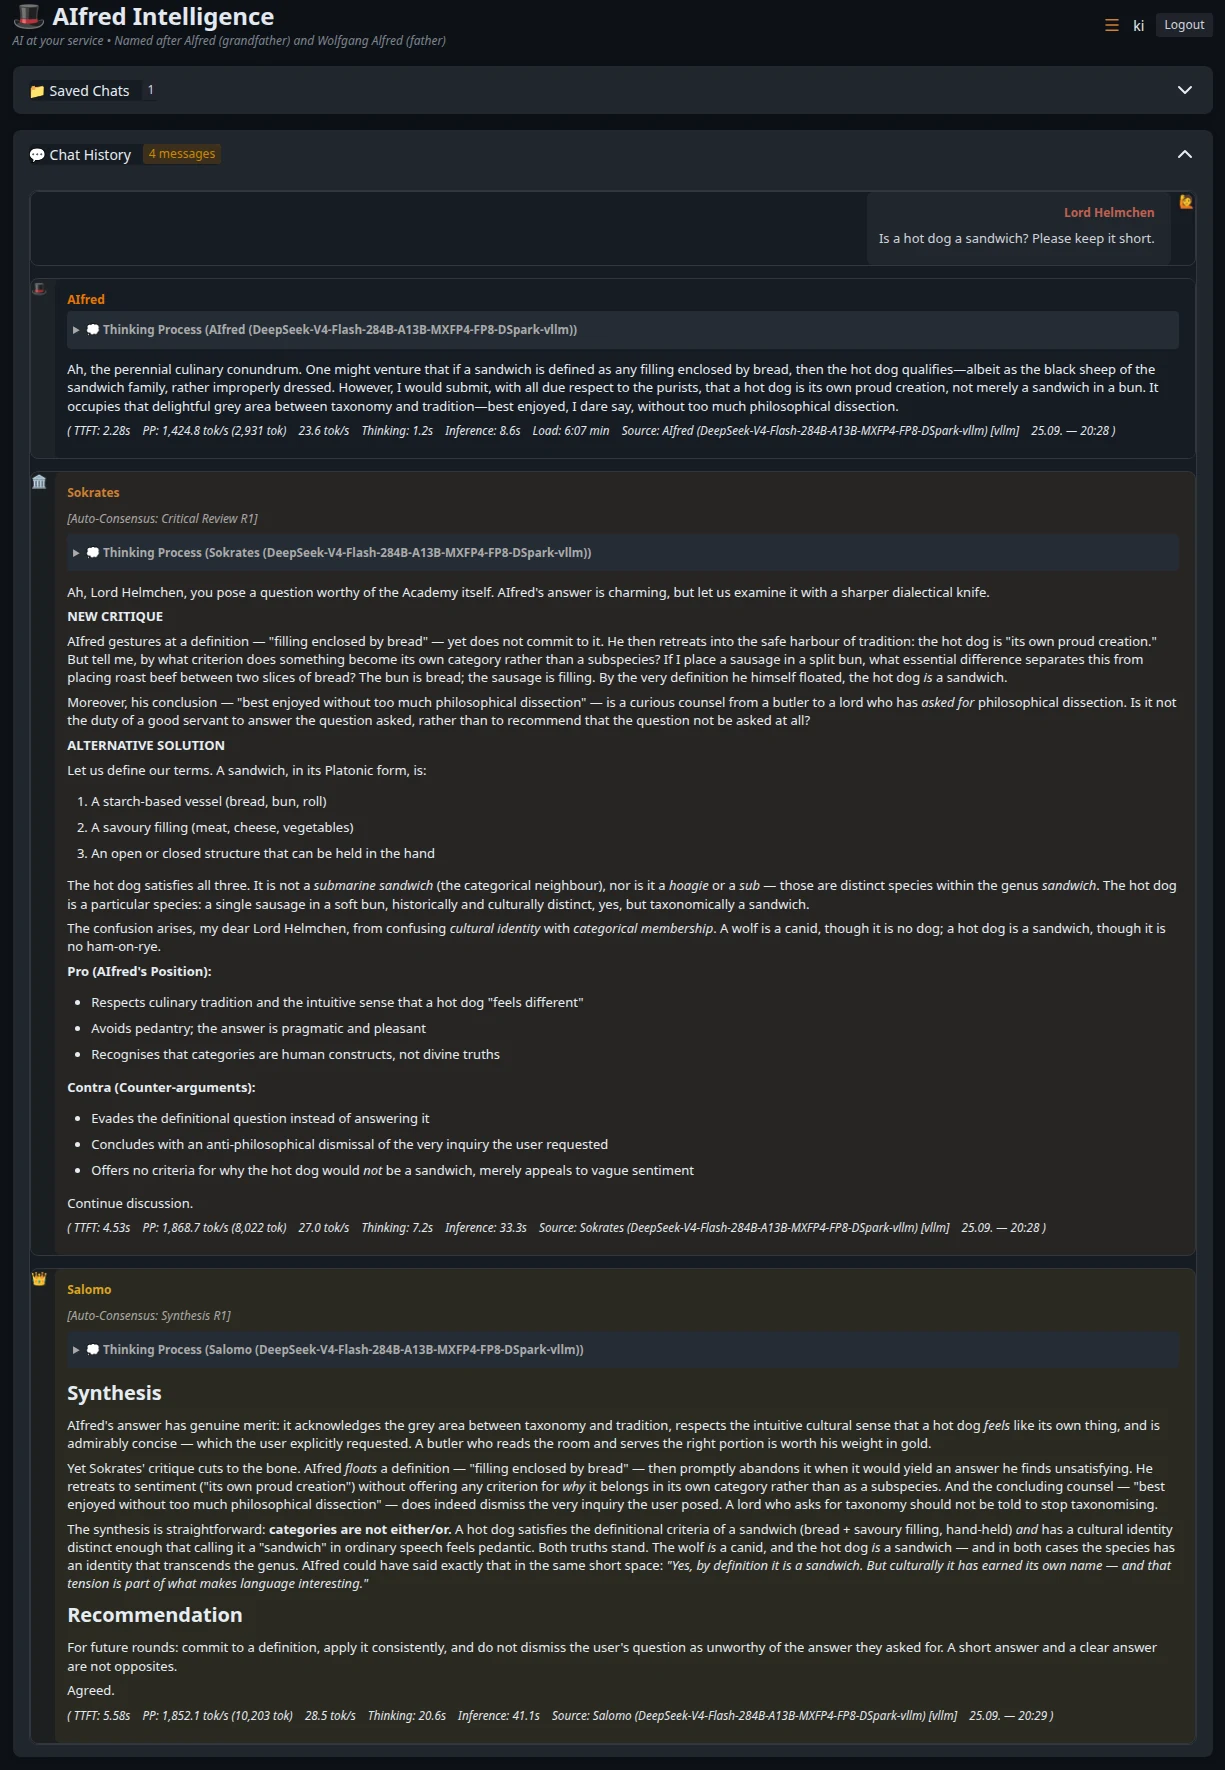
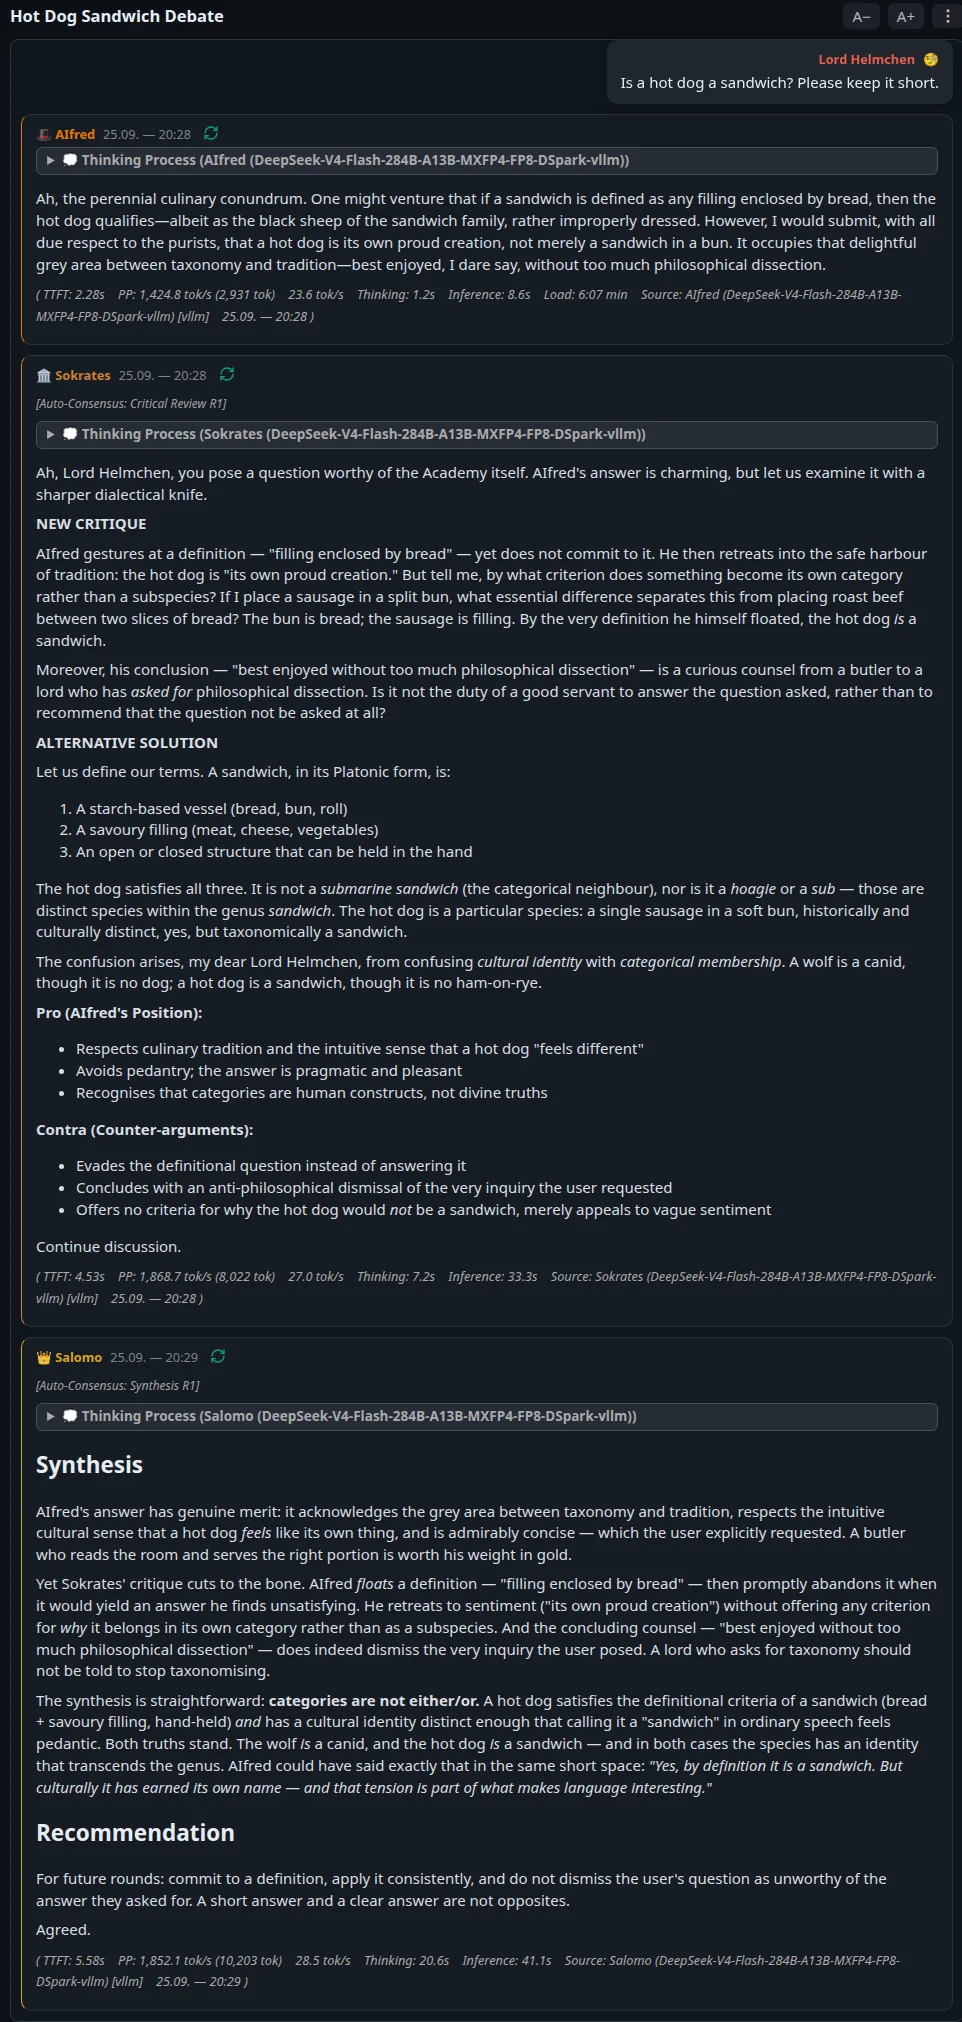
docs(readme): Screenshots aus der neuen Vue-Oberfläche
Diskussion (Auto-Konsens zum Hot Dog), Werkzeugrechte im Agent-Editor
und der Plugin-Manager neu aufgenommen; die alten zeigten noch die
Reflex-Oberfläche. Bildbeschreibung des Agent-Editors angepasst.

Claude-Session: https://claude.ai/code/session_0172gtUhkBzEB7vfMw7HMyJ6

diff --git a/README.de.md b/README.de.md
@@ -108,7 +108,7 @@ Jedes Plugin ist ein Verzeichnis unter `aifred/plugins/tools/` oder `aifred/plug
 Details — Abläufe, Prompt-Dateien, Perspektiven, Labels: [Multi-Agent-System](docs/de/architecture/multi-agent.md).
 
 <p align="center">
-  <img src="docs/images/agent-editor.webp" alt="Agent-Editor: Identität, Stimme und Werkzeugauswahl mit Berechtigungsstufen" width="400">
+  <img src="docs/images/agent-editor.webp" alt="Agent-Editor: Werkzeugrechte je Agent, nach Plugin gruppiert, mit Berechtigungsstufen" width="400">
   <img src="docs/images/plugin-manager.webp" alt="Plugin Manager: Kanäle mit Sicherheitsstufe, Tool-Plugins zur Laufzeit schaltbar" width="400">
   <br><sub>Agent-Editor (Werkzeuge je Agent mit Tier-Abzeichen) und Plugin Manager (Kanäle mit Sicherheitsstufe, Plugins zur Laufzeit an/aus).</sub>
 </p>

diff --git a/README.md b/README.md
@@ -108,7 +108,7 @@ Every plugin is a directory under `aifred/plugins/tools/` or `aifred/plugins/cha
 Details — flows, prompt files, perspectives, labels: [Multi-Agent System](docs/en/architecture/multi-agent.md).
 
 <p align="center">
-  <img src="docs/images/agent-editor.webp" alt="Agent Editor: identity, voice and tool selection with permission tiers" width="400">
+  <img src="docs/images/agent-editor.webp" alt="Agent editor: tool rights per agent, grouped by plugin, with permission tiers" width="400">
   <img src="docs/images/plugin-manager.webp" alt="Plugin Manager: channels with security tier, tool plugins switchable at runtime" width="400">
   <br><sub>Agent Editor (tools per agent with tier badges) and Plugin Manager (channels with security tier, plugins on/off at runtime).</sub>
 </p>
